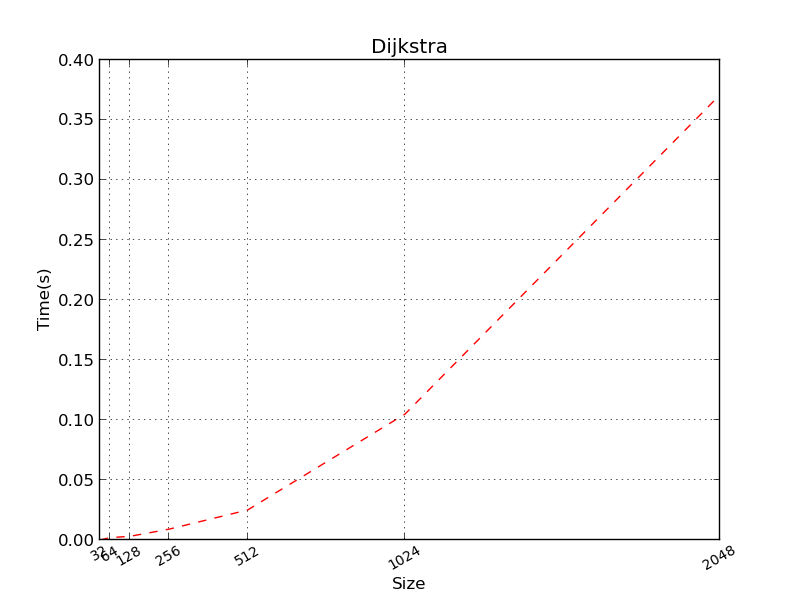
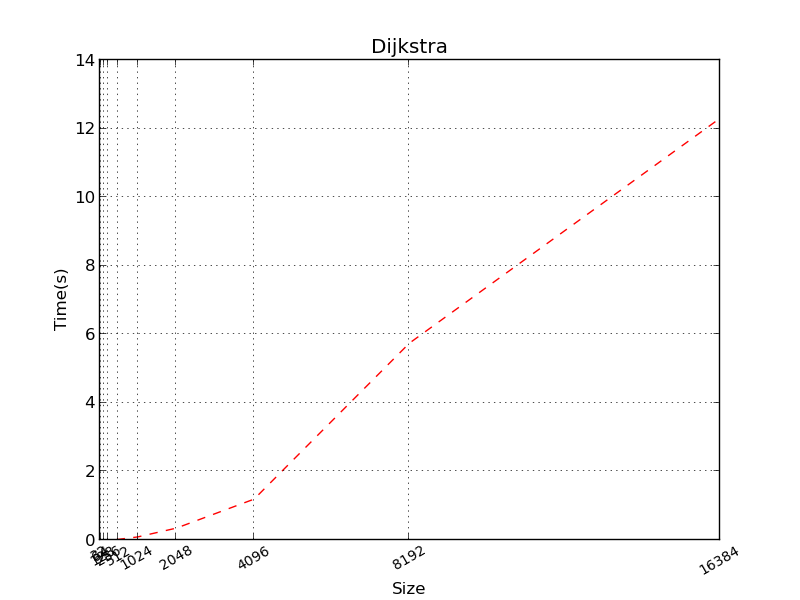
new version

diff --git a/cpp/ex2/bench_dij.py b/cpp/ex2/bench_dij.py
@@ -8,7 +8,6 @@ import matplotlib.pyplot as plt
 import os
 
 def generate(size):
-  print 'generating for', size
   os.system('../files/gen ' + str(size) + ' 1 > ../files/' + str(size) + '.gr')
 
 num_benchs = 10
@@ -17,7 +16,7 @@ sizes = []
 times = []
 
 print '# x f(x)'
-for i in xrange(5, 20):
+for i in xrange(5, 15):
   size = 2 ** i
   sname = str(size)
   graph_file = '../files/' + str(sname) + '.gr'
